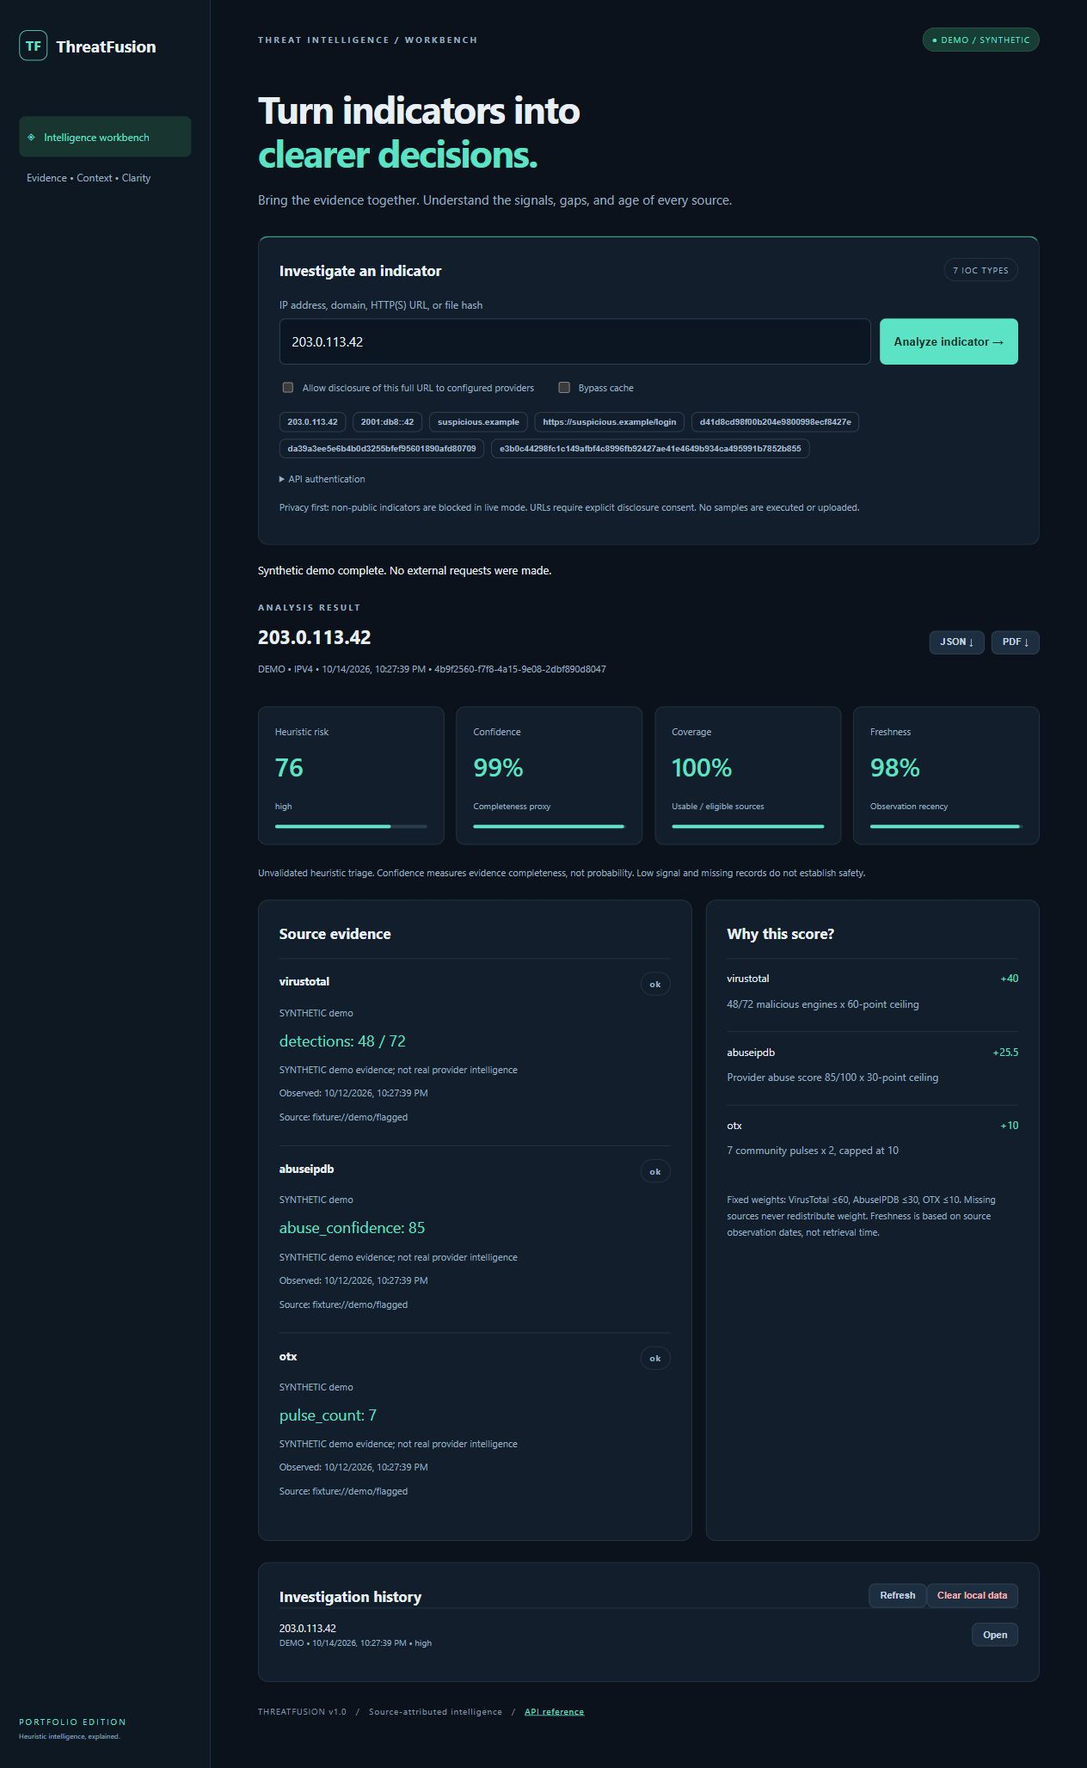
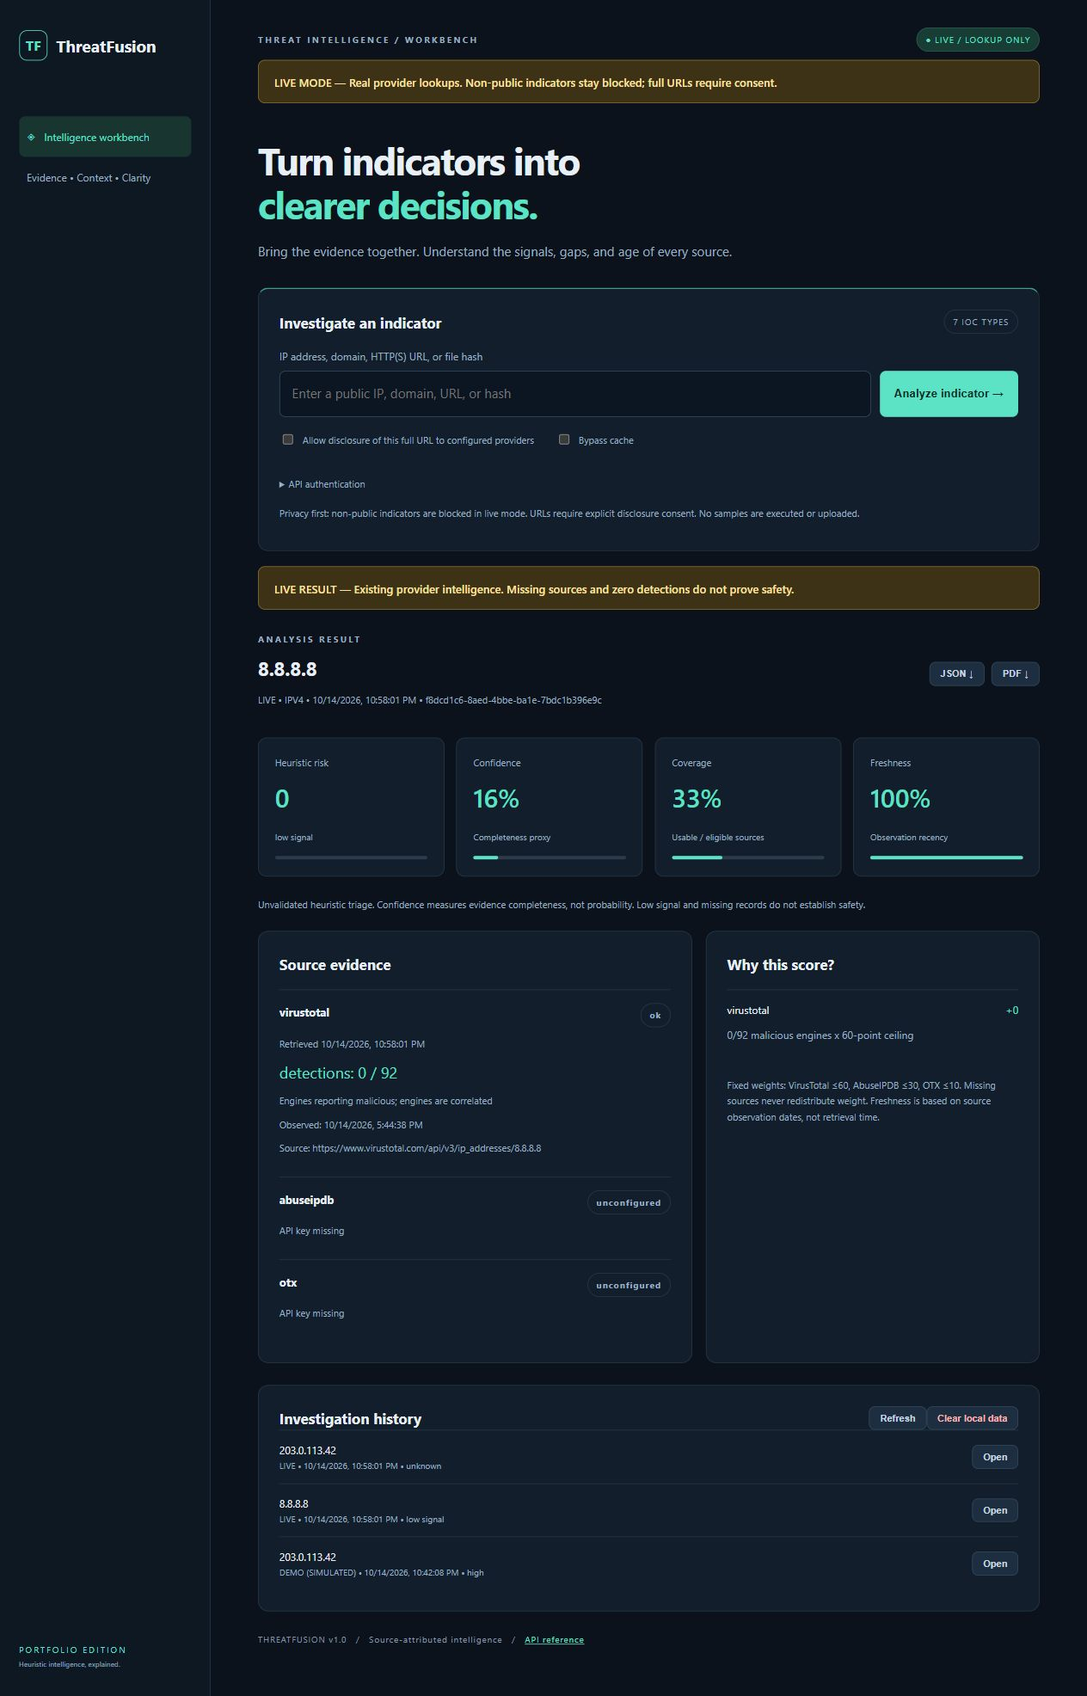
Clearly distinguish fictional demo evidence from live intelligence

diff --git a/src/threatfusion/static/app.js b/src/threatfusion/static/app.js
@@ -12,15 +12,17 @@ async function request(path, options={}) {
 function status(text, error=false) { $("status").textContent=text; $("status").className=error?"error":""; }
 function render(a) {
   current=a; $("result").hidden=false; $("result-ioc").textContent=a.ioc.value;
+  $("result-notice").textContent=a.mode==="demo"?"SIMULATED DEMO RESULT — Fictional fixture values. This is not a real VirusTotal report or a maliciousness verdict.":"LIVE RESULT — Existing provider intelligence. Missing sources and zero detections do not prove safety.";
   $("result-meta").textContent=`${a.mode.toUpperCase()} • ${a.ioc.type.toUpperCase()} • ${new Date(a.created_at).toLocaleString()} • ${a.id}`;
   $("metrics").replaceChildren();
-  for(const [name,value,caption] of [["Heuristic risk",a.score.risk,a.score.label],["Confidence",a.score.confidence,"Completeness proxy"],["Coverage",a.score.coverage,"Usable / eligible sources"],["Freshness",a.score.freshness,"Observation recency"]]) {
-    const box=el("div",undefined,"metric"); box.append(el("div",name,"metric-title"),el("div",value===null?"Unknown":`${value}${name==="Heuristic risk"?"":"%"}`,"metric-value"),el("small",caption));
+  const riskTitle=a.mode==="demo"?"Simulated risk":"Heuristic risk";
+  for(const [name,value,caption] of [[riskTitle,a.score.risk,a.mode==="demo"?`Fictional scenario: ${a.score.label}`:a.score.label],["Confidence",a.score.confidence,"Completeness proxy"],["Coverage",a.score.coverage,"Usable / eligible sources"],["Freshness",a.score.freshness,"Observation recency"]]) {
+    const box=el("div",undefined,"metric"); box.append(el("div",name,"metric-title"),el("div",value===null?"Unknown":`${value}${name===riskTitle?"":"%"}`,"metric-value"),el("small",caption));
     const bar=el("div",undefined,"bar"), fill=el("div",undefined,"bar-fill"); fill.style.width=`${value || 0}%`; bar.append(fill); box.append(bar); $("metrics").append(box);
   }
   $("evidence").replaceChildren();
   for(const r of a.results) {
-    const card=el("div",undefined,"source"), heading=el("div",undefined,"source-head"); heading.append(el("span",r.source),el("span",`${r.status}${r.cached?" / cache":""}`,"badge muted")); card.append(heading);
+    const card=el("div",undefined,"source"), heading=el("div",undefined,"source-head"); heading.append(el("span",a.mode==="demo"?`${r.source} (simulated)`:r.source),el("span",`${r.status}${r.cached?" / cache":""}`,"badge muted")); card.append(heading);
     card.append(el("p",r.message || `Retrieved ${new Date(r.retrieved_at).toLocaleString()}`));
     for(const e of r.evidence) { card.append(el("div",`${e.metric}: ${e.value}${e.total?` / ${e.total}`:""}`,"value"),el("p",e.description),el("p",`Observed: ${e.observed_at?new Date(e.observed_at).toLocaleString():"Unknown"}`),el("p",`Source: ${e.source_url}`)); }
     if(r.retry_after !== null) card.append(el("p",`Retry after ${Math.ceil(r.retry_after)} seconds`));
@@ -33,12 +35,12 @@ function render(a) {
 async function history() {
   const data=await (await request("/api/history")).json(); $("history").replaceChildren();
   if(!data.length) $("history").append(el("p","No investigations yet. Try a demo fixture above."));
-  for(const a of data) { const row=el("div",undefined,"history-row"), info=el("div",a.ioc.value); info.append(el("small",`${a.mode.toUpperCase()} • ${new Date(a.created_at).toLocaleString()} • ${a.score.label}`)); const open=el("button","Open","secondary"); open.addEventListener("click",()=>{render(a);$("result").scrollIntoView({behavior:"smooth"});}); row.append(info,open); $("history").append(row); }
+  for(const a of data) { const row=el("div",undefined,"history-row"), info=el("div",a.ioc.value); info.append(el("small",`${a.mode==="demo"?"DEMO (SIMULATED)":"LIVE"} • ${new Date(a.created_at).toLocaleString()} • ${a.score.label}`)); const open=el("button","Open","secondary"); open.addEventListener("click",()=>{render(a);$("result").scrollIntoView({behavior:"smooth"});}); row.append(info,open); $("history").append(row); }
 }
 $("analyze-form").addEventListener("submit",async event=>{event.preventDefault();$("analyze").disabled=true;status("Gathering source evidence…");try { const a=await (await request("/api/analyze",{method:"POST",body:JSON.stringify({value:$("ioc").value,allow_url:$("allow-url").checked,refresh:$("refresh").checked})})).json();render(a);status(a.mode==="demo"?"Synthetic demo complete. No external requests were made.":"Analysis complete. Review source gaps before making decisions.");await history();} catch(error){status(error.message,true);} finally{$("analyze").disabled=false;}});
 for(const format of ["json","pdf"]) $("export-"+format).addEventListener("click",async()=>{if(!current)return;try{const response=await request(`/api/analyses/${current.id}/report?format=${format}`), url=URL.createObjectURL(await response.blob()), link=el("a");link.href=url;link.download=`threatfusion-${current.id}.${format}`;link.click();setTimeout(()=>URL.revokeObjectURL(url),1000);}catch(error){status(error.message,true);}});
 $("reload-history").addEventListener("click",()=>history().catch(e=>status(e.message,true)));
 $("clear-history").addEventListener("click",async()=>{if(!confirm("Delete all local investigation history and cache?"))return;try{await request("/api/history",{method:"DELETE"});current=null;$("result").hidden=true;await history();status("Local data cleared.");}catch(e){status(e.message,true);}});
-async function initialize(){$("samples").replaceChildren();const health=await(await request("/api/health")).json();$("mode").textContent=health.mode==="demo"?"● DEMO / SYNTHETIC":"● LIVE / LOOKUP ONLY";if(health.mode==="demo"){const data=await(await request("/api/demo")).json();for(const value of data.indicators){const button=el("button",value);button.type="button";button.addEventListener("click",()=>{$("ioc").value=value;$("ioc").focus();});$("samples").append(button);}}await history();}
+async function initialize(){$("samples").replaceChildren();const health=await(await request("/api/health")).json();$("mode-notice").hidden=false;$("mode-notice").textContent=health.mode==="demo"?"DEMO MODE — All results are fictional fixtures for learning. No live VirusTotal data is being used.":"LIVE MODE — Real provider lookups. Non-public indicators stay blocked; full URLs require consent.";$("ioc").placeholder=health.mode==="demo"?"Try 203.0.113.42 (fictional demo fixture)":"Enter a public IP, domain, URL, or hash";$("mode").textContent=health.mode==="demo"?"● DEMO / SYNTHETIC":"● LIVE / LOOKUP ONLY";if(health.mode==="demo"){const data=await(await request("/api/demo")).json();for(const value of data.indicators){const button=el("button",value);button.type="button";button.addEventListener("click",()=>{$("ioc").value=value;$("ioc").focus();});$("samples").append(button);}}await history();}
 $("api-key").addEventListener("change",()=>initialize().then(()=>status("Session connected.")).catch(e=>status(e.message,true)));
 initialize().catch(e=>status(e.message,true));

diff --git a/src/threatfusion/static/style.css b/src/threatfusion/static/style.css
@@ -1,2 +1,4 @@
 :root{color-scheme:dark;--bg:#0b121b;--panel:#121e2b;--edge:#263747;--text:#e8eff6;--muted:#9aafc2;--accent:#5ce3c5}*{box-sizing:border-box}body{margin:0;background:var(--bg);color:var(--text);font:15px/1.6 system-ui,-apple-system,Segoe UI,sans-serif}aside{position:fixed;width:245px;height:100vh;padding:35px 22px;border-right:1px solid var(--edge);background:#0e1823}.brand{font-size:19px;font-weight:750;display:flex;align-items:center;gap:10px;margin-bottom:65px}.mark{color:var(--accent);border:1px solid var(--accent);padding:4px 7px;border-radius:9px;font-size:16px}.nav{font-size:12px;color:var(--muted);padding:14px 9px}.active{background:#18352f;border-radius:7px;color:var(--accent)}.aside-bottom{position:absolute;bottom:30px;font-size:10px;letter-spacing:2px;color:var(--accent)}.aside-bottom small{letter-spacing:0;color:var(--muted)}main{max-width:1450px;margin-left:245px;padding:32px 55px}header,.section-title,.result-head{display:flex;align-items:center;justify-content:space-between;gap:15px}.eyebrow{font-size:10px;letter-spacing:2.4px;color:var(--muted);font-weight:650}.badge{font-size:10px;letter-spacing:1px;padding:5px 10px;background:#173d35;border:1px solid #2c5c50;border-radius:30px;color:var(--accent)}.muted{background:transparent;color:var(--muted);border-color:var(--edge)}.intro{margin:40px 0 30px}h1{font-size:clamp(30px,3.5vw,49px);line-height:1.16;letter-spacing:-1.7px;margin:0 0 18px;font-weight:650}h1 span{color:var(--accent)}p{color:var(--muted);margin:10px 0}h2{font-size:17px;margin:0 0 16px;font-weight:650}.section-title h2{margin:0}.panel{border:1px solid var(--edge);background:var(--panel);border-radius:12px;padding:24px}.query{border-top:2px solid #3f9f8b}label{display:block;color:var(--muted);font-size:12px;margin:17px 0 7px}.input-row{display:flex;gap:10px}input:not([type=checkbox]){width:100%;background:#0c1622;border:1px solid #34495c;padding:14px;border-radius:7px;color:var(--text);font:inherit;min-width:0}input:focus-visible,button:focus-visible{outline:2px solid var(--accent);outline-offset:3px}button{background:var(--accent);border:0;border-radius:7px;padding:12px 17px;color:#052d25;font-weight:700;cursor:pointer;white-space:nowrap}button:disabled{opacity:.5;cursor:wait}.secondary{background:#1d2e40;color:#c6d6e5;border:1px solid #34475b;padding:7px 12px;font-size:11px}.danger{color:#ffb2b2}.options{display:flex;gap:25px;flex-wrap:wrap}.options label{display:flex;align-items:center;gap:7px;font-size:11px}input[type=checkbox]{accent-color:var(--accent)}.samples{display:flex;gap:8px;flex-wrap:wrap;margin-top:12px}.samples button{background:transparent;border:1px solid #34475b;color:#a3bbcf;font-size:10px;padding:5px 9px;max-width:100%;overflow:hidden;text-overflow:ellipsis}.privacy{font-size:11px;line-height:1.7;margin-top:16px}details{margin-top:14px;font-size:11px;color:var(--muted)}#status{margin:18px 0;font-size:13px}.error{color:#ffb2b2}.result-head{margin:26px 0}.result-head h2{margin:8px 0 0;font-size:22px;overflow-wrap:anywhere}.result-head p{font-size:11px}.exports{display:flex;gap:8px}.metrics{display:grid;grid-template-columns:repeat(4,1fr);gap:14px}.metric{border:1px solid var(--edge);border-radius:10px;padding:19px;background:var(--panel)}.metric-title{color:var(--muted);font-size:11px}.metric-value{font-size:30px;font-weight:600;margin:8px 0;color:var(--accent)}.metric small{font-size:10px;color:var(--muted)}.bar{height:4px;background:#2c3b49;border-radius:4px;margin-top:12px}.bar-fill{height:100%;background:var(--accent);border-radius:4px}.notice{font-size:11px;padding:13px 0}.grid{display:grid;grid-template-columns:1.3fr 1fr;gap:16px}.source{border-top:1px solid var(--edge);padding:15px 0}.source-head{display:flex;justify-content:space-between;gap:10px;font-weight:650;font-size:13px}.source p,.source small{font-size:11px;overflow-wrap:anywhere}.source .value{color:var(--accent);font-size:18px}.contribution{border-top:1px solid var(--edge);padding:13px 0;font-size:12px}.points{color:var(--accent);float:right}.history{margin:25px 0}.history-row{display:flex;align-items:center;justify-content:space-between;gap:15px;border-top:1px solid var(--edge);padding:13px 0;font-size:12px;overflow-wrap:anywhere}.history-row small{color:var(--muted);display:block;font-size:10px}footer{font-size:10px;letter-spacing:.8px;color:#8194a6;margin:25px 0}a{color:var(--accent)}@media(max-width:1050px){aside{width:185px;padding:30px 14px}main{margin-left:185px;padding:25px}.brand{font-size:16px}.grid{grid-template-columns:1fr}}@media(max-width:700px){aside{position:static;height:auto;width:100%;padding:15px 20px;border-right:0;border-bottom:1px solid var(--edge)}.brand{margin:0}.nav,.aside-bottom{display:none}main{margin:0;padding:20px}.input-row{flex-direction:column}.metrics{grid-template-columns:repeat(2,1fr)}.result-head{align-items:flex-start;flex-direction:column}.panel{padding:18px}.section-title{flex-wrap:wrap}.intro{margin-top:28px}}
 .api-response{white-space:pre-wrap;overflow-wrap:anywhere;max-height:600px;overflow:auto;background:#0b121b;padding:18px;border-radius:7px;font-size:12px}
+
+.mode-notice{padding:14px 18px;background:#3d3215;border:1px solid #8d7134;border-radius:8px;color:#ffe3a0;font-size:13px;font-weight:600;line-height:1.6}

diff --git a/src/threatfusion/static/index.html b/src/threatfusion/static/index.html
@@ -5,10 +5,11 @@
 <aside><div class="brand"><span class="mark">TF</span> ThreatFusion</div><div class="nav active">◈ &nbsp; Intelligence workbench</div><div class="nav">Evidence • Context • Clarity</div><div class="aside-bottom">PORTFOLIO EDITION<br><small>Heuristic intelligence, explained.</small></div></aside>
 <main>
 <header><div class="eyebrow">THREAT INTELLIGENCE / WORKBENCH</div><span id="mode" class="badge">Connecting…</span></header>
+<p id="mode-notice" class="mode-notice" role="note" hidden></p>
 <section class="intro"><h1>Turn indicators into<br><span>clearer decisions.</span></h1><p>Bring the evidence together. Understand the signals, gaps, and age of every source.</p></section>
 <section class="panel query"><div class="section-title"><h2>Investigate an indicator</h2><span class="badge muted">7 IOC TYPES</span></div><form id="analyze-form"><label for="ioc">IP address, domain, HTTP(S) URL, or file hash</label><div class="input-row"><input id="ioc" required maxlength="2048" autocomplete="off" spellcheck="false" placeholder="Try 203.0.113.42 in demo mode"><button id="analyze" type="submit">Analyze indicator →</button></div><div class="options"><label><input type="checkbox" id="allow-url"> Allow disclosure of this full URL to configured providers</label><label><input type="checkbox" id="refresh"> Bypass cache</label></div></form><div id="samples" class="samples"></div><details><summary>API authentication</summary><label for="api-key">Session API key (kept in memory)</label><input id="api-key" type="password" autocomplete="off"></details><p class="privacy">Privacy first: non-public indicators are blocked in live mode. URLs require explicit disclosure consent. No samples are executed or uploaded.</p></section>
 <div id="status" role="status" aria-live="polite"></div>
-<section id="result" hidden><div class="result-head"><div><div class="eyebrow">ANALYSIS RESULT</div><h2 id="result-ioc"></h2><p id="result-meta"></p></div><div class="exports"><button id="export-json" class="secondary">JSON ↓</button><button id="export-pdf" class="secondary">PDF ↓</button></div></div><div id="metrics" class="metrics"></div><p class="notice">Unvalidated heuristic triage. Confidence measures evidence completeness, not probability. Low signal and missing records do not establish safety.</p><div class="grid"><section class="panel"><h2>Source evidence</h2><div id="evidence"></div></section><section class="panel"><h2>Why this score?</h2><div id="explanation"></div><p class="privacy">Fixed weights: VirusTotal ≤60, AbuseIPDB ≤30, OTX ≤10. Missing sources never redistribute weight. Freshness is based on source observation dates, not retrieval time.</p></section></div></section>
+<section id="result" hidden><p id="result-notice" class="mode-notice" role="note"></p><div class="result-head"><div><div class="eyebrow">ANALYSIS RESULT</div><h2 id="result-ioc"></h2><p id="result-meta"></p></div><div class="exports"><button id="export-json" class="secondary">JSON ↓</button><button id="export-pdf" class="secondary">PDF ↓</button></div></div><div id="metrics" class="metrics"></div><p class="notice">Unvalidated heuristic triage. Confidence measures evidence completeness, not probability. Low signal and missing records do not establish safety.</p><div class="grid"><section class="panel"><h2>Source evidence</h2><div id="evidence"></div></section><section class="panel"><h2>Why this score?</h2><div id="explanation"></div><p class="privacy">Fixed weights: VirusTotal ≤60, AbuseIPDB ≤30, OTX ≤10. Missing sources never redistribute weight. Freshness is based on source observation dates, not retrieval time.</p></section></div></section>
 <section class="panel history"><div class="section-title"><h2>Investigation history</h2><div><button id="reload-history" class="secondary">Refresh</button><button id="clear-history" class="secondary danger">Clear local data</button></div></div><div id="history"></div></section>
 <footer>THREATFUSION v1.0 &nbsp; / &nbsp; Source-attributed intelligence &nbsp; / &nbsp; <a href="/docs">API reference</a></footer>
 </main></body></html>

diff --git a/tests/test_api_cli_reports.py b/tests/test_api_cli_reports.py
@@ -12,6 +12,8 @@ def test_api_end_to_end(settings):
     with TestClient(create_app(settings)) as client:
         assert client.get("/api/health").json()["mode"] == "demo"
         assert client.get("/").status_code == 200
+        assert 'id="mode-notice"' in client.get("/").text
+        assert "SIMULATED DEMO RESULT" in client.get("/static/app.js").text
         assert "Same-origin REST explorer" in client.get("/docs").text
         assert client.get("/static/app.js").status_code == 200
         assert client.get("/openapi.json").status_code == 200
@@ -34,6 +36,7 @@ def test_api_end_to_end(settings):
         reader = PdfReader(BytesIO(pdf.content))
         text = "".join(p.extract_text() for p in reader.pages)
         assert "203.0.113.42" in text and "SYNTHETIC" in text and "unvalidated" in text
+        assert "SIMULATED DEMO" in text and "FICTIONAL FIXTURE DATA" in text
         assert client.delete("/api/history").json() == {"cleared": True}
         assert not client.get("/api/history").json()
 
@@ -70,6 +73,7 @@ def test_cli(monkeypatch, tmp_path):
     assert (tmp_path / "report.json").exists()
     pdf = runner.invoke(app, ["analyze", "203.0.113.42", "--output", str(tmp_path / "report.pdf")])
     assert pdf.exit_code == 0 and (tmp_path / "report.pdf").read_bytes().startswith(b"%PDF")
+    assert "SIMULATED DEMO" in pdf.output and "Simulated risk" in pdf.output
     assert runner.invoke(app, ["analyze", "bad"]).exit_code == 2
     assert runner.invoke(app, ["analyze", "203.0.113.42", "--output", "bad.txt"]).exit_code == 2
     assert runner.invoke(app, ["demo"]).exit_code == 0

diff --git a/src/threatfusion/cli.py b/src/threatfusion/cli.py
@@ -21,9 +21,14 @@ console = Console()
 def show(result):
     s = result.score
     console.print(f"[bold cyan]ThreatFusion[/] | {result.mode.upper()} | {result.id}")
+    if result.mode == "demo":
+        console.print(
+            "[bold yellow]SIMULATED DEMO: fictional fixture values, not a real provider verdict.[/]"
+        )
+    risk_title = "Simulated risk" if result.mode == "demo" else "Risk"
     console.print(result.ioc.value, markup=False)
     console.print(
-        f"Risk: {s.risk if s.risk is not None else 'Unknown'} / 100 ({s.label}) | Confidence: {s.confidence}% | Coverage: {s.coverage}% | Freshness: {s.freshness}%"
+        f"{risk_title}: {s.risk if s.risk is not None else 'Unknown'} / 100 ({s.label}) | Confidence: {s.confidence}% | Coverage: {s.coverage}% | Freshness: {s.freshness}%"
     )
     table = Table("Provider", "Status", "Cache", "Evidence")
     for r in result.results:

diff --git a/src/threatfusion/reports.py b/src/threatfusion/reports.py
@@ -22,8 +22,18 @@ def pdf_report(analysis: Analysis) -> bytes:
 
     s = analysis.score
     story = [
-        paragraph("THREATFUSION / Intelligence report", "Title"),
+        paragraph(
+            "THREATFUSION / SIMULATED DEMO"
+            if analysis.mode == "demo"
+            else "THREATFUSION / Intelligence report",
+            "Title",
+        ),
         paragraph(f"{analysis.mode.upper()} | {analysis.created_at.isoformat()}"),
+        paragraph(
+            "FICTIONAL FIXTURE DATA. No live provider lookup or maliciousness verdict."
+            if analysis.mode == "demo"
+            else "Existing provider intelligence. This heuristic is not a safety verdict."
+        ),
         Spacer(1, 12),
         paragraph(analysis.ioc.value, "Heading2"),
         paragraph(f"Type: {analysis.ioc.type.value} | Analysis: {analysis.id}"),

diff --git a/VERIFICATION.md b/VERIFICATION.md
@@ -17,7 +17,7 @@ Verified locally on **2026-10-14**, Windows, Python **3.12.14**.
 
 Examples are in `examples/`: dashboard preview, synthetic report PDF, and matching JSON.
 
-No live intelligence requests, suspicious URL submissions, sample execution, or API-key use were performed. Live adapters are verified against official route documentation and mocked responses; paid account entitlements and live provider behavior were not tested.
+The initial verification was offline. On 2026-10-14, an owner-authorized VirusTotal live lookup for public IP `8.8.8.8` succeeded and returned 0/92 malicious detections. The documentation address `203.0.113.42` remained blocked in live mode with unknown risk. No suspicious URLs were submitted and no samples were executed. Credentials are stored only in ignored local configuration. AbuseIPDB/OTX live behavior and other VirusTotal IOC types remain unverified.
 
 The installed Starlette version emits one deprecation warning about its HTTPX-based TestClient. Tests still pass. This is a test-client compatibility notice, not a failed runtime check.
 
@@ -32,3 +32,7 @@ pytest-cov 7.1.0     ruff 0.17.0          pypdf 6.20.1
 ```
 
 Heuristic scores have **not** been benchmarked, calibrated, or validated against a labeled threat dataset. Code coverage is not evidence of detection accuracy.
+
+## Demo clarity correction
+
+Demo results now display prominent fictional-data labels in the dashboard, CLI, and PDF exports; historical demo entries remain explicitly simulated when the running app is in live mode. The fictional fixture score for `203.0.113.42` is not a VirusTotal reputation claim. Rechecked all 89 mocked tests after this change: 97.30% coverage.

diff --git a/README.md b/README.md
@@ -37,6 +37,8 @@ On Windows, activation can be skipped by using `.venv\Scripts\threatfusion.exe` 
 
 ### Key-free demo
 
+**The demo score for `203.0.113.42` is fictional.** It is not its VirusTotal reputation. This address belongs to the documentation-only TEST-NET-3 range; live mode blocks it. A real VirusTotal result of 0 detections means no vendors flagged that record, not guaranteed safety. The dashboard, CLI, and reports label simulated evidence explicitly.
+
 All seven IOC types have packaged fixtures. They use documentation IP ranges, `.example` domains, and empty-file hashes. These names and hashes **do not carry real reputation claims**. Flagged, quiet, and stale profiles demonstrate scoring and missing freshness. An IOC without a fixture returns `not_found` and unknown risk. Demo ignores API keys and never constructs real providers.
 
 ## Live enrichment
